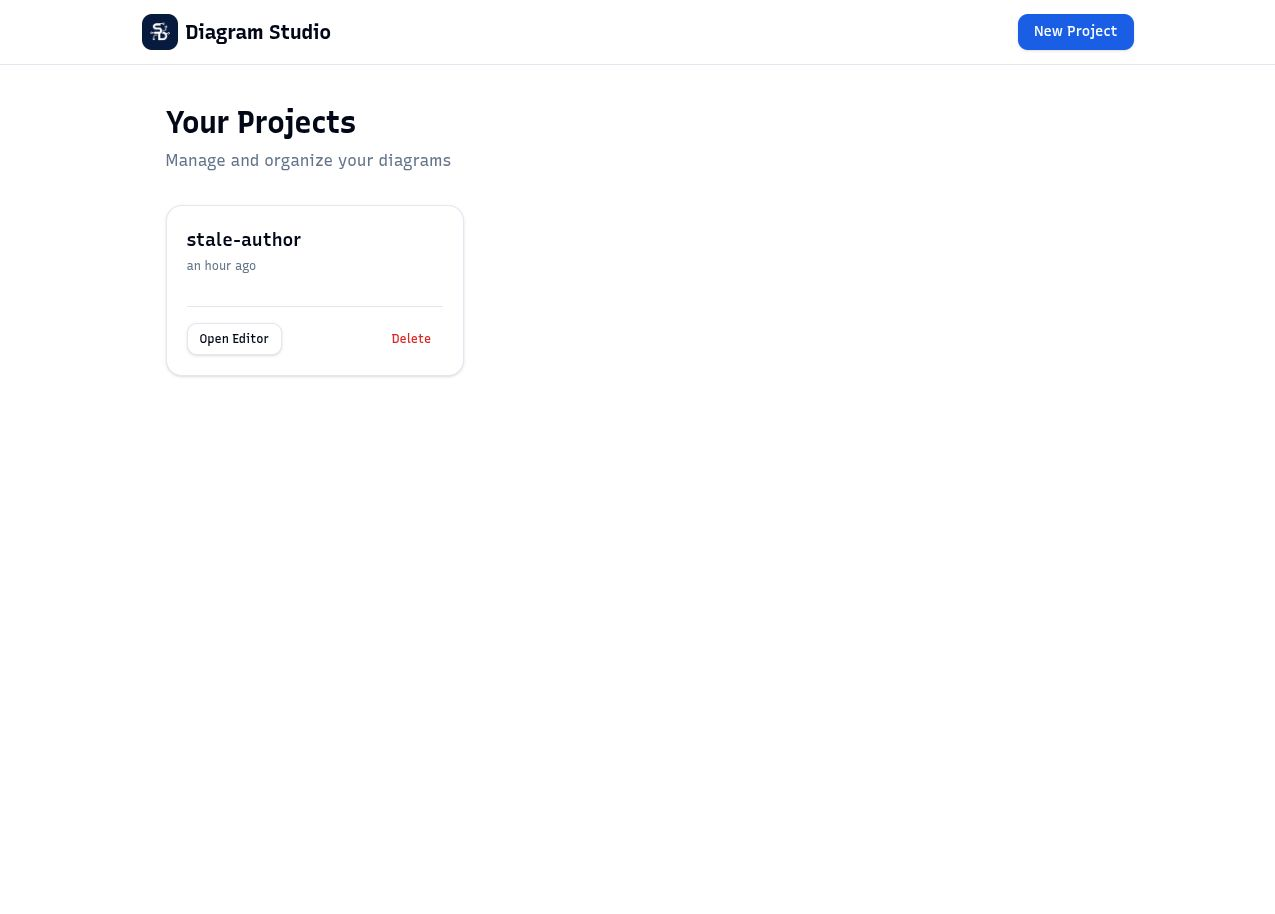
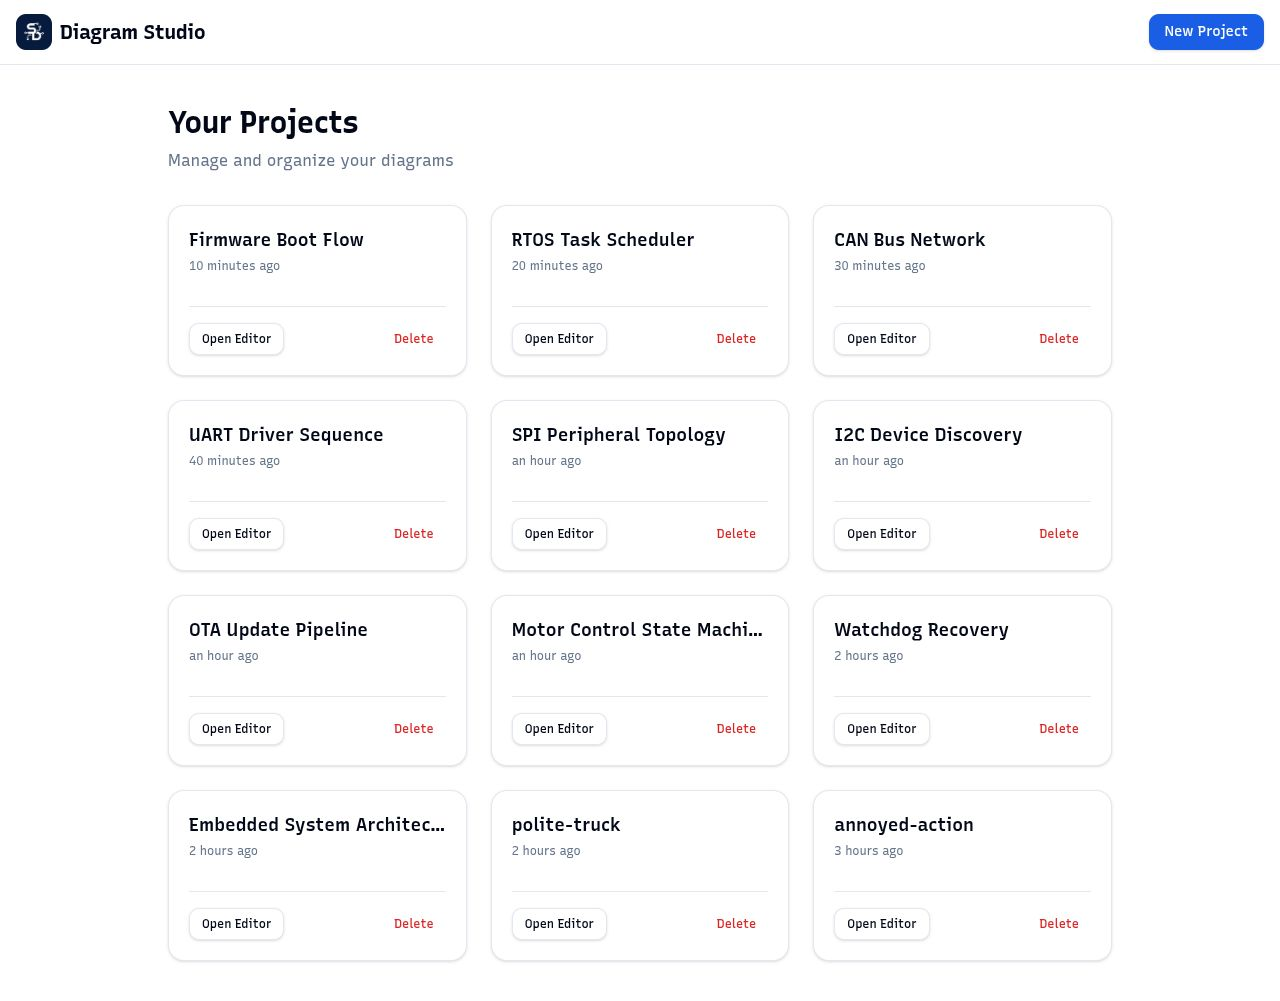
docs: refresh dashboard screenshot with embedded examples

diff --git a/README.md b/README.md
@@ -16,7 +16,8 @@ and create as many charts as your own infrastructure supports.
 
 - Edit and preview flowcharts, sequence diagrams, gantt diagrams in real time.
 - Save diagrams as PNG or SVG files
-- Keep named projects in a local dashboard
+- Keep named projects in a deployment-backed dashboard
+- Start with ten embedded-systems project examples for firmware design work
 - Protect a deployment with a configurable password
 - Get a link to a viewer of the diagram so that you can share it with others.
 - Get a link to edit the diagram so that someone else can tweak it and send a new link back
